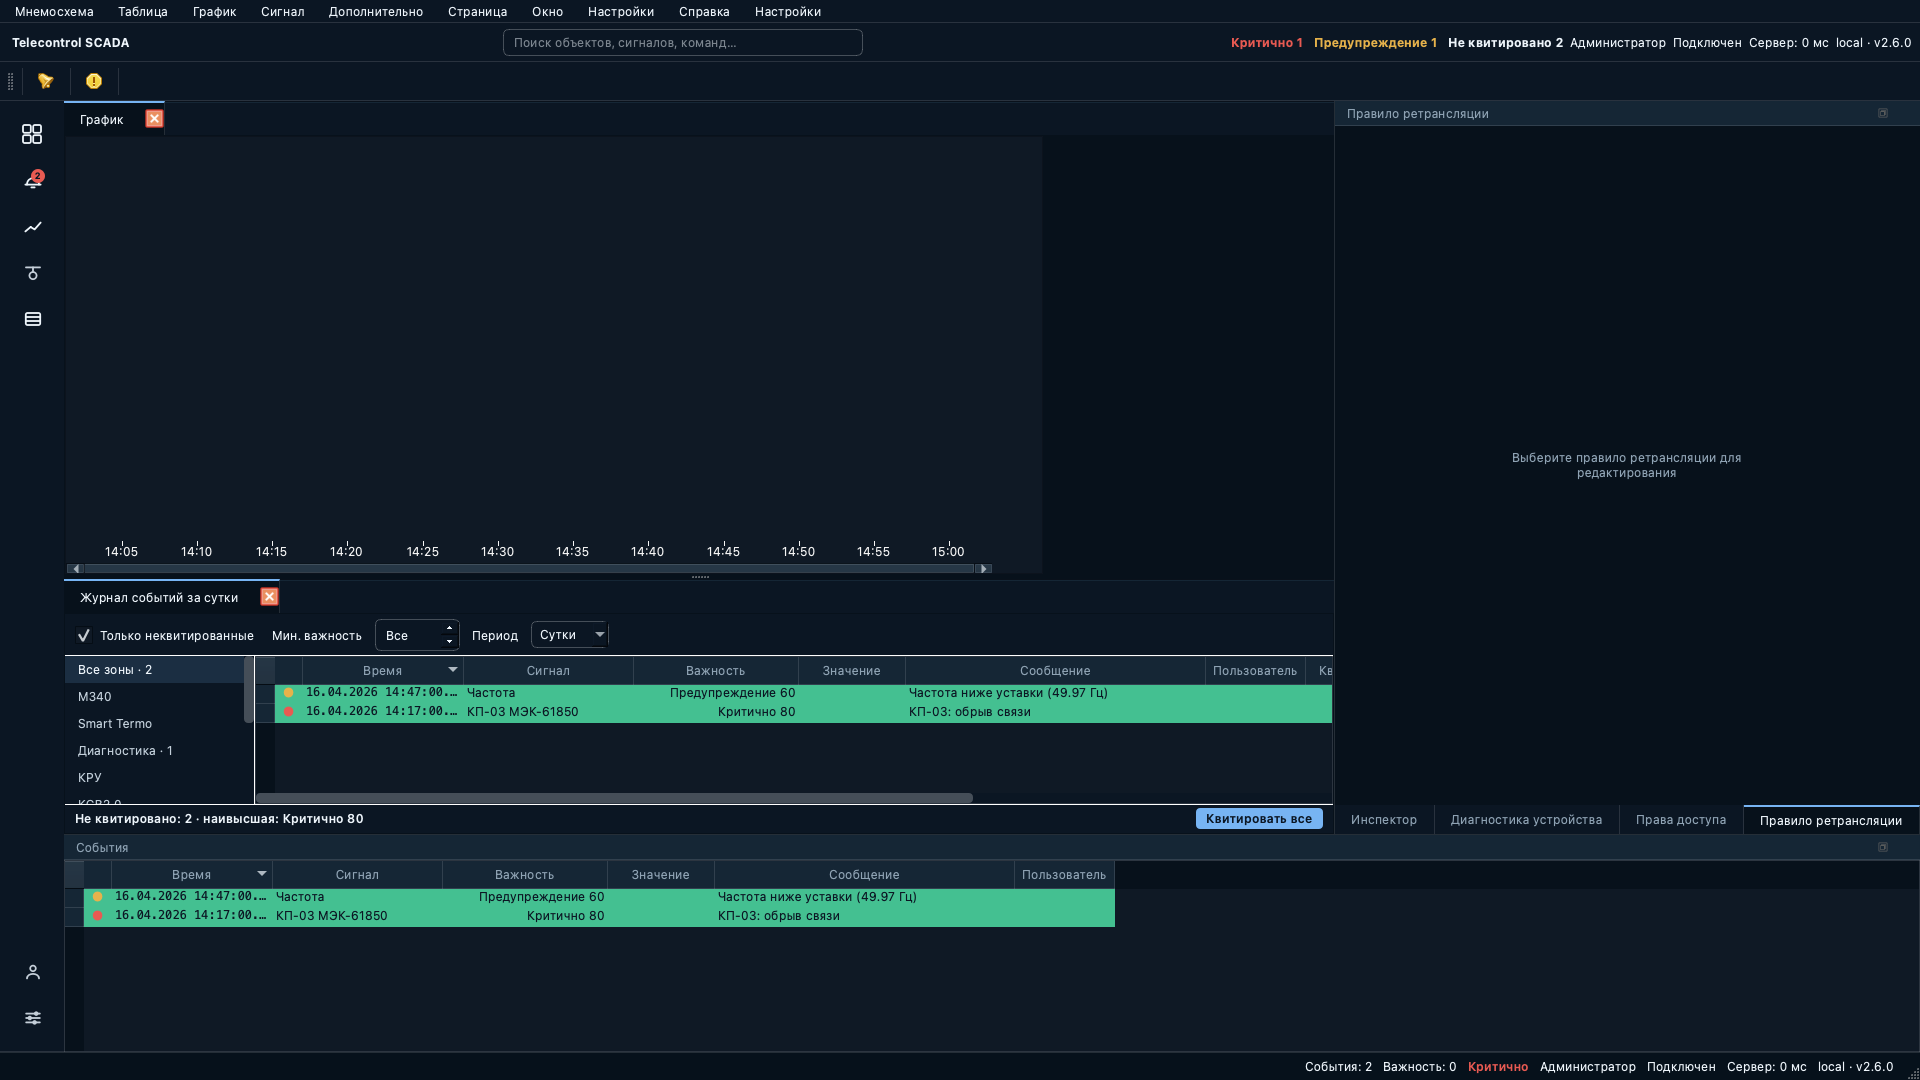
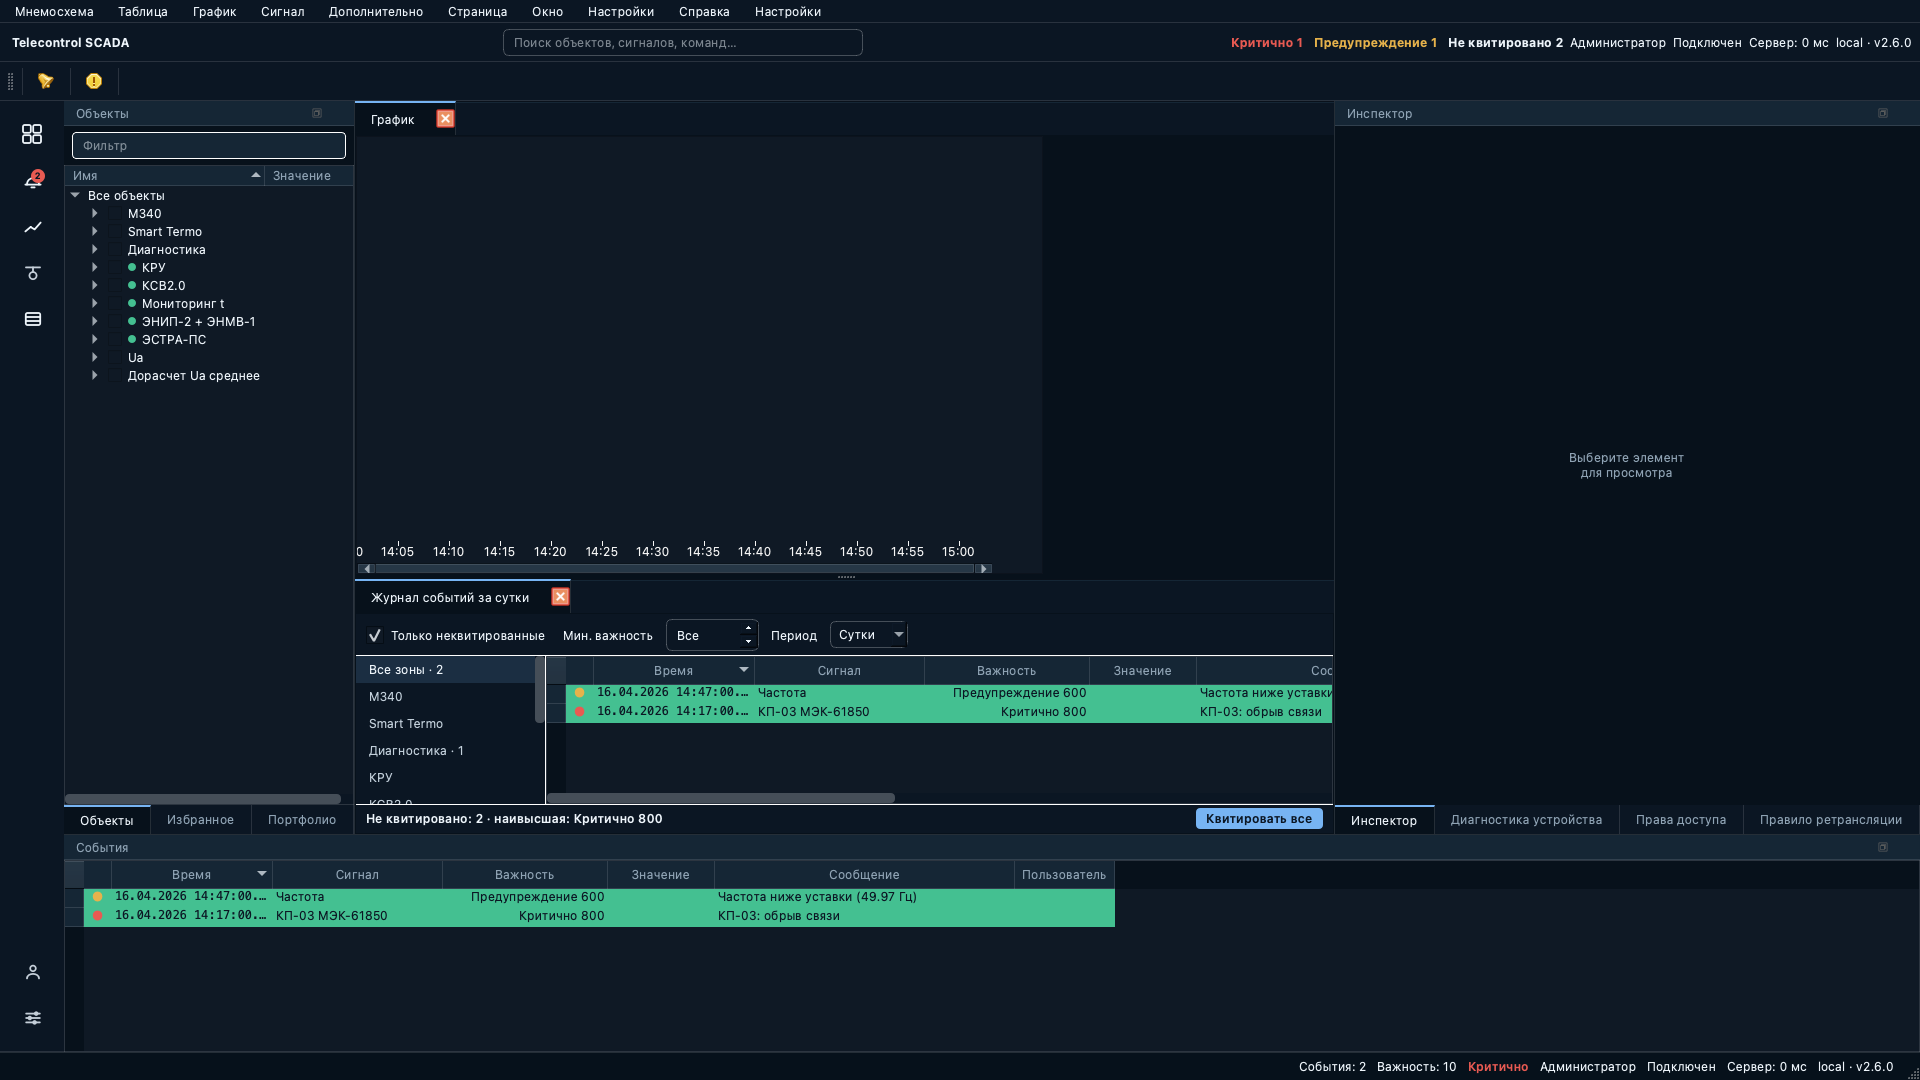
client: document the Overview sidebar panes
The workbench page (RU + EN) describes the landing page's sidebar: the
Objects tree with its filter and quality dots, tabified with the Favorites
and Portfolio panes, with Objects open by default. Both shell captures are
refreshed - the landing now shows the activity rail, the Explorer sidebar,
the workspace and the Inspector.

diff --git a/client/workbench.md b/client/workbench.md
@@ -69,9 +69,15 @@ permalink: /client/workbench/
 ![](../img/workbench-overview.png)
 
 Новый профиль (без сохранённых страниц) открывается на странице «Обзор» —
-рабочем экране оператора: сверху доминирующий график (примерно две трети
-экрана), под ним — таблица активных тревог (журнал событий в режиме
-текущих, только неквитированные события). Сводка по важности при этом
+рабочем экране оператора: слева боковая панель с деревом объектов, сверху
+доминирующий график (примерно две трети экрана), под ним — таблица активных
+тревог (журнал событий в режиме текущих, только неквитированные события),
+справа — инспектор.
+
+Боковая панель совмещает несколько вкладок: «Объекты» (дерево объектов с
+фильтром и индикаторами достоверности), «Избранное» и «Портфолио».
+Переключение между ними — вкладками внизу панели; открытой по умолчанию
+остаётся вкладка «Объекты». Сводка по важности при этом
 всегда видна в плитках верхней панели. График пуст, пока оператор не
 добавит в него сигналы; раскладка страницы сохраняется в профиле как
 обычная страница.

diff --git a/en/client/workbench.md b/en/client/workbench.md
@@ -66,9 +66,14 @@ components.</dd>
 ![]({{ '/img/workbench-overview.png' | relative_url }})
 
 A fresh profile (no saved pages) opens on the Overview page — the
-operator's working screen: a dominant trend on top (about two thirds of
-the screen) with the active-alarm table under it (the event journal in
-current mode, unacknowledged events only). The severity summary stays
+operator's working screen: the sidebar with the object tree on the left, a
+dominant trend on top (about two thirds of the screen) with the
+active-alarm table under it (the event journal in current mode,
+unacknowledged events only), and the Inspector on the right.
+
+The sidebar hosts several panes: "Objects" (the object tree with its filter
+and quality dots), "Favorites" and "Portfolio". The tabs along the bottom of
+the panel switch between them; "Objects" is the one open by default. The severity summary stays
 visible in the top-bar tiles throughout. The trend is empty until the
 operator adds signals to it; the page layout is saved in the profile as a
 regular page.
